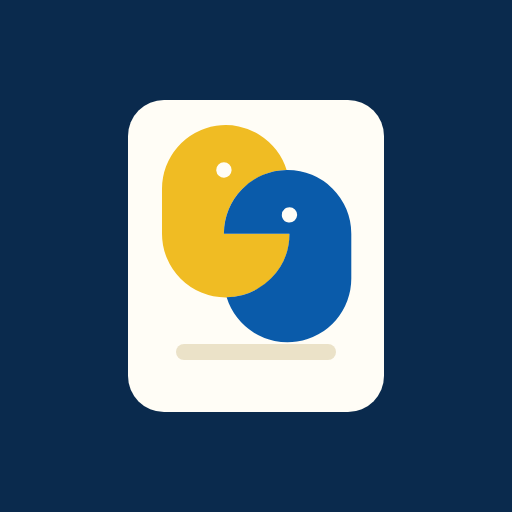
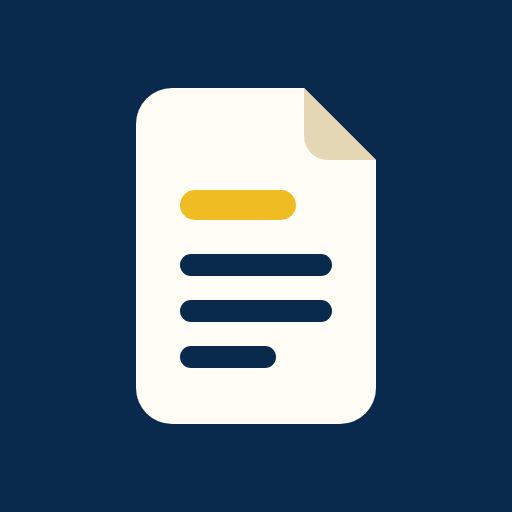
圖示改成單純的企劃書紙張，按鈕加上會動的操作圖示
- App／網站圖示拿掉學生會小人，只留一張有標題條的文件
- 下一步、上一步、新增、上傳、下載、放大、範例、回首頁都有圖示；
  閒置時只在下一個該按的地方輕輕提示，滑過時動作更明顯；動畫設定「關閉」時全部靜止

Claude-Session: https://claude.ai/code/session_016i4e4p2haFjCx31cF5SqkS

Changed region(s): [[0.2812, 0.1562, 0.75, 0.7812], [0.2812, 0.7812, 0.7188, 0.8438], [0.25, 0.2188, 0.2812, 0.7812]]

diff --git a/index.html b/index.html
@@ -68,8 +68,8 @@
   <div class="hero-rule">
     <span class="sub">南臺科技大學 學務處課外活動組 企劃書格式</span>
     <div class="actions">
-      <button type="button" class="btn icon" onClick="{{loadSample}}">載入範例資料</button>
-      <button type="button" class="btn icon" onClick="{{goStart}}">回到開始</button>
+      <button type="button" class="btn icon" onClick="{{loadSample}}"><svg class="ai ai-spark" aria-hidden="true" width="16" height="16" style="width:16px;height:16px" viewBox="0 0 24 24" fill="none" stroke="currentColor" stroke-width="1.9" stroke-linecap="round" stroke-linejoin="round"><g class="ai-m"><path d="M12 3l1.8 5.2L19 10l-5.2 1.8L12 17l-1.8-5.2L5 10l5.2-1.8z"/><path d="M19 17v4M17 19h4"/></g></svg>載入範例資料</button>
+      <button type="button" class="btn icon" onClick="{{goStart}}"><svg class="ai ai-home" aria-hidden="true" width="16" height="16" style="width:16px;height:16px" viewBox="0 0 24 24" fill="none" stroke="currentColor" stroke-width="1.9" stroke-linecap="round" stroke-linejoin="round"><g class="ai-m"><path d="M4 11l8-7 8 7"/><path d="M6 10v10h12V10"/></g></svg>回到開始</button>
     </div>
   </div>
 
@@ -100,15 +100,17 @@
           <p class="sub" style="margin: 0; font-size: 14px">照著步驟填，最後一鍵匯出符合學校格式的 Word 與 PDF。之前匯出的 Word 檔也能丟回來繼續改。</p>
           <div class="start">
             <button type="button" class="card" onClick="{{startNew}}">
+              <span class="card-ico"><svg class="ai ai-pen" aria-hidden="true" width="26" height="26" style="width:26px;height:26px" viewBox="0 0 24 24" fill="none" stroke="currentColor" stroke-width="1.9" stroke-linecap="round" stroke-linejoin="round"><g class="ai-m"><path d="M4 20l1-4.5L16 4.5l3.5 3.5L8.5 19z"/><path d="M14 6.5l3.5 3.5"/></g></svg></span>
               <span class="k">01 — NEW</span>
               <span class="t">建立新企劃書</span>
               <span class="sub">從空白開始，一步一步填寫活動資訊。</span>
             </button>
             <label class="card dashed">
+              <span class="card-ico"><svg class="ai ai-up" aria-hidden="true" width="26" height="26" style="width:26px;height:26px" viewBox="0 0 24 24" fill="none" stroke="currentColor" stroke-width="1.9" stroke-linecap="round" stroke-linejoin="round"><g class="ai-m"><path d="M12 15V4"/><path d="M7 9l5-5 5 5"/></g><path d="M5 20h14"/></svg></span>
               <span class="k">02 — IMPORT</span>
               <span class="t">匯入 Word 原檔</span>
               <span class="sub">選擇用本工具匯出的 .docx，內容會自動帶回各步驟。</span>
-              <span class="pick-cue">選擇 .docx 檔</span>
+              <span class="pick-cue"><svg class="ai ai-up" aria-hidden="true" width="15" height="15" style="width:15px;height:15px" viewBox="0 0 24 24" fill="none" stroke="currentColor" stroke-width="1.9" stroke-linecap="round" stroke-linejoin="round"><g class="ai-m"><path d="M12 15V4"/><path d="M7 9l5-5 5 5"/></g><path d="M5 20h14"/></svg>選擇 .docx 檔</span>
               <input type="file" accept=".docx" class="sr" onChange="{{onImport}}">
             </label>
           </div>
@@ -201,7 +203,7 @@
               </div>
             </sc-for>
           </div></div>
-          <button type="button" class="btn ghost add-row" onClick="{{addStaff}}">＋ 新增一列</button>
+          <button type="button" class="btn ghost add-row" onClick="{{addStaff}}"><svg class="ai ai-plus" aria-hidden="true" width="18" height="18" style="width:18px;height:18px" viewBox="0 0 24 24" fill="none" stroke="currentColor" stroke-width="1.9" stroke-linecap="round" stroke-linejoin="round"><g class="ai-m"><path d="M12 5v14"/><path d="M5 12h14"/></g></svg>新增一列</button>
         </div>
       </sc-if>
 
@@ -224,8 +226,8 @@
             </sc-for>
           </div></div>
           <div class="actions">
-            <button type="button" class="btn ghost" onClick="{{addFlow}}">＋ 新增一列</button>
-            <button type="button" class="btn" onClick="{{addPrePost}}">帶入「場地佈置」與「場復」</button>
+            <button type="button" class="btn ghost" onClick="{{addFlow}}"><svg class="ai ai-plus" aria-hidden="true" width="18" height="18" style="width:18px;height:18px" viewBox="0 0 24 24" fill="none" stroke="currentColor" stroke-width="1.9" stroke-linecap="round" stroke-linejoin="round"><g class="ai-m"><path d="M12 5v14"/><path d="M5 12h14"/></g></svg>新增一列</button>
+            <button type="button" class="btn" onClick="{{addPrePost}}"><svg class="ai ai-list" aria-hidden="true" width="16" height="16" style="width:16px;height:16px" viewBox="0 0 24 24" fill="none" stroke="currentColor" stroke-width="1.9" stroke-linecap="round" stroke-linejoin="round"><g class="ai-m"><path d="M8 7l3 3 5-6" /></g><path d="M4 13h16M4 18h11"/></svg>帶入「場地佈置」與「場復」</button>
           </div>
         </div>
       </sc-if>
@@ -251,7 +253,7 @@
               </div>
             </sc-for>
           </div></div>
-          <button type="button" class="btn ghost add-row" onClick="{{addBudget}}">＋ 新增經費項目</button>
+          <button type="button" class="btn ghost add-row" onClick="{{addBudget}}"><svg class="ai ai-plus" aria-hidden="true" width="18" height="18" style="width:18px;height:18px" viewBox="0 0 24 24" fill="none" stroke="currentColor" stroke-width="1.9" stroke-linecap="round" stroke-linejoin="round"><g class="ai-m"><path d="M12 5v14"/><path d="M5 12h14"/></g></svg>新增經費項目</button>
           <div class="stats">
             <div class="stat"><div class="k">經費總計 TOTAL</div><div class="v">{{totalStr}}<small>元</small></div></div>
             <div class="stat"><div class="k">學輔支應 {{subsidyIdx}}</div><div class="v">{{subsidyStr}}<small>元</small></div></div>
@@ -302,7 +304,7 @@
                     <div class="up-empty"><svg aria-hidden="true" width="22" height="22" viewBox="0 0 24 24" fill="none" stroke="currentColor" stroke-width="1.5" stroke-linecap="round" stroke-linejoin="round"><rect x="3" y="4" width="18" height="16" rx="2"></rect><circle cx="9" cy="10" r="2"></circle><path d="M21 16l-5-5-9 9"></path></svg><span>{{u.where}}</span></div>
                   </sc-if>
                   <div class="actions">
-                    <label class="btn icon up-pick">{{u.pickLabel}}<input type="file" accept="image/*" class="sr" onChange="{{u.pick}}"></label>
+                    <label class="btn icon up-pick"><svg class="ai ai-up" aria-hidden="true" width="16" height="16" style="width:16px;height:16px" viewBox="0 0 24 24" fill="none" stroke="currentColor" stroke-width="1.9" stroke-linecap="round" stroke-linejoin="round"><g class="ai-m"><path d="M12 15V4"/><path d="M7 9l5-5 5 5"/></g><path d="M5 20h14"/></svg>{{u.pickLabel}}<input type="file" accept="image/*" class="sr" onChange="{{u.pick}}"></label>
                     <sc-if value="{{u.has}}" hint-placeholder-val="{{false}}"><button type="button" class="btn icon ghost" onClick="{{u.clear}}">移除</button></sc-if>
                   </div>
                   <p class="sub" style="margin: 0; font-size: 12px">{{u.note}}</p>
@@ -326,11 +328,11 @@
           <label class="field">檔名<input type="text" value="{{fileName}}" onChange="{{on.fileName}}"></label>
           <div class="export-btns">
             <button type="button" class="btn primary big" onClick="{{exportWord}}" disabled="{{busyAny}}">
-              <svg aria-hidden="true" width="20" height="20" viewBox="0 0 24 24" fill="none" stroke="currentColor" stroke-width="1.8" stroke-linecap="round" stroke-linejoin="round"><path d="M12 4v11"></path><path d="M7 10l5 5 5-5"></path><path d="M5 20h14"></path></svg>
+              <svg class="ai ai-down" aria-hidden="true" width="20" height="20" style="width:20px;height:20px" viewBox="0 0 24 24" fill="none" stroke="currentColor" stroke-width="1.8" stroke-linecap="round" stroke-linejoin="round"><g class="ai-m"><path d="M12 4v11"></path><path d="M7 10l5 5 5-5"></path></g><path d="M5 20h14"></path></svg>
               {{wordLabel}}
             </button>
             <button type="button" class="btn big" onClick="{{exportPdf}}" disabled="{{busyAny}}">
-              <svg aria-hidden="true" width="20" height="20" viewBox="0 0 24 24" fill="none" stroke="currentColor" stroke-width="1.8" stroke-linecap="round" stroke-linejoin="round"><path d="M12 4v11"></path><path d="M7 10l5 5 5-5"></path><path d="M5 20h14"></path></svg>
+              <svg class="ai ai-down" aria-hidden="true" width="20" height="20" style="width:20px;height:20px" viewBox="0 0 24 24" fill="none" stroke="currentColor" stroke-width="1.8" stroke-linecap="round" stroke-linejoin="round"><g class="ai-m"><path d="M12 4v11"></path><path d="M7 10l5 5 5-5"></path></g><path d="M5 20h14"></path></svg>
               {{pdfLabel}}
             </button>
           </div>
@@ -373,9 +375,9 @@
       <!-- 上一步 / 下一步 -->
       <sc-if value="{{inStep}}" hint-placeholder-val="{{false}}">
         <div class="foot" style="margin-top: 22px">
-          <button type="button" class="btn" onClick="{{prev}}">← 上一步</button>
+          <button type="button" class="btn" onClick="{{prev}}"><svg class="ai ai-prev" aria-hidden="true" width="18" height="18" style="width:18px;height:18px" viewBox="0 0 24 24" fill="none" stroke="currentColor" stroke-width="1.9" stroke-linecap="round" stroke-linejoin="round"><g class="ai-m"><path d="M19 12H5"/><path d="M11 6l-6 6 6 6"/></g></svg>上一步</button>
           <sc-if value="{{notLast}}" hint-placeholder-val="{{true}}">
-            <button type="button" class="btn primary" onClick="{{next}}">下一步：{{nextLabel}} →</button>
+            <button type="button" class="btn primary" onClick="{{next}}">下一步：{{nextLabel}}<svg class="ai ai-next" aria-hidden="true" width="18" height="18" style="width:18px;height:18px" viewBox="0 0 24 24" fill="none" stroke="currentColor" stroke-width="1.9" stroke-linecap="round" stroke-linejoin="round"><g class="ai-m"><path d="M5 12h14"/><path d="M13 6l6 6-6 6"/></g></svg></button>
           </sc-if>
         </div>
       </sc-if>
@@ -386,7 +388,7 @@
       <div style="position: {{pz.pos}}; inset: {{pz.inset}}; z-index: {{pz.z}}; background: {{pz.bg}}; overflow: {{pz.ov}}; padding: {{pz.pad}}; display: flex; flex-direction: column; align-items: center; gap: 12px">
         <div style="width: 100%; max-width: {{pz.barW}}; display: flex; flex-direction: column; gap: 10px">
           <div class="panel-head" style="margin: 0"><h2 style="color: {{pz.head}}">預覽<span class="en">PREVIEW</span></h2>
-            <button type="button" class="btn icon" onClick="{{toggleZoom}}">{{pz.btn}}</button></div>
+            <button type="button" class="btn icon" onClick="{{toggleZoom}}"><svg class="ai ai-zoom" aria-hidden="true" width="16" height="16" style="width:16px;height:16px" viewBox="0 0 24 24" fill="none" stroke="currentColor" stroke-width="1.9" stroke-linecap="round" stroke-linejoin="round"><g class="ai-m"><circle cx="11" cy="11" r="6"/><path d="M20 20l-4.5-4.5"/></g></svg>{{pz.btn}}</button></div>
           <div class="tabs" role="tablist" aria-label="預覽頁面">
             <sc-for list="{{pages}}" as="pg" hint-placeholder-count="4">
               <button type="button" role="tab" class="tab {{pg.cls}}" aria-selected="{{pg.sel}}" onClick="{{pg.go}}">{{pg.label}}</button>

diff --git a/css/app.css b/css/app.css
@@ -335,3 +335,39 @@ button:focus-visible,input:focus-visible,textarea:focus-visible,select:focus-vis
 @keyframes fadeIn{from{opacity:0}}
 /* 關閉：全部不動 */
 :root[data-motion="off"] *,:root[data-motion="off"] *::before,:root[data-motion="off"] *::after{animation:none!important;transition:none!important}
+
+/* ---------- 會動的操作圖示（.ai；動畫設定「關閉」時全部靜止） ----------
+   閒置時偶爾動一下，提示「這裡可以按」；滑過或按下時動作更明顯。 */
+.ai{flex:none;overflow:visible;display:block}
+.ai .ai-m{transform-box:fill-box;transform-origin:center;transition:transform .35s var(--spring)}
+.card-ico{width:52px;height:52px;border-radius:50%;display:flex;align-items:center;justify-content:center;background:color-mix(in srgb,var(--ink) 9%,transparent);margin-bottom:4px}
+.card:not(.dashed) .card-ico{background:color-mix(in srgb,#fff 35%,transparent)}
+.pick-cue{display:inline-flex;align-items:center;gap:6px}
+.round svg{transition:transform .45s var(--spring)}
+@keyframes ai-nudge{0%,62%,100%{transform:none}72%{transform:translateX(4px)}82%{transform:translateX(-1px)}90%{transform:translateX(2px)}}
+@keyframes ai-up{0%,58%,100%{transform:none}70%{transform:translateY(-4px)}82%{transform:translateY(1px)}90%{transform:none}}
+@keyframes ai-down{0%,58%,100%{transform:none}70%{transform:translateY(4px)}82%{transform:translateY(-1px)}90%{transform:none}}
+@keyframes ai-write{0%,55%,100%{transform:none}64%{transform:translate(-2px,2px) rotate(-10deg)}73%{transform:translate(2px,0) rotate(4deg)}82%{transform:translate(-1px,1px) rotate(-6deg)}}
+@keyframes ai-twinkle{0%,70%,100%{transform:none}80%{transform:scale(1.25) rotate(20deg)}}
+/* 閒置提示：只放在「下一個該按的」地方，不會整頁都在動 */
+:root:not([data-motion="off"]) .btn.primary .ai-next .ai-m{animation:ai-nudge 2.6s var(--ease) infinite}
+:root:not([data-motion="off"]) .card-ico .ai-pen .ai-m{animation:ai-write 3s var(--ease) infinite}
+:root:not([data-motion="off"]) .card-ico .ai-up .ai-m,
+:root:not([data-motion="off"]) .up:not(.has) .up-pick .ai-up .ai-m{animation:ai-up 2.8s var(--ease) infinite}
+:root:not([data-motion="off"]) .export-btns .btn.primary:not(:disabled) .ai-down .ai-m{animation:ai-down 2.6s var(--ease) infinite}
+:root:not([data-motion="off"]) .btn .ai-spark .ai-m{animation:ai-twinkle 4s var(--ease) infinite}
+/* 滑過／按下 */
+@media (hover:hover){
+  :root:not([data-motion="off"]) .btn:hover .ai-next .ai-m{animation:none;transform:translateX(4px)}
+  :root:not([data-motion="off"]) .btn:hover .ai-prev .ai-m{transform:translateX(-4px)}
+  :root:not([data-motion="off"]) .btn:hover .ai-plus .ai-m{transform:rotate(90deg)}
+  :root:not([data-motion="off"]) .btn:hover .ai-up .ai-m,:root:not([data-motion="off"]) .card:hover .ai-up .ai-m{animation:none;transform:translateY(-4px)}
+  :root:not([data-motion="off"]) .btn:hover .ai-down .ai-m{animation:none;transform:translateY(4px)}
+  :root:not([data-motion="off"]) .btn:hover .ai-zoom .ai-m{transform:scale(1.18)}
+  :root:not([data-motion="off"]) .btn:hover .ai-home .ai-m{transform:translateY(-2px)}
+  :root:not([data-motion="off"]) .btn:hover .ai-list .ai-m{transform:scale(1.25)}
+  :root:not([data-motion="off"]) [data-theme-toggle]:hover svg{transform:rotate(180deg)}
+  :root:not([data-motion="off"]) [data-settings]:hover svg{transform:rotate(-25deg) scale(1.08)}
+}
+:root:not([data-motion="off"]) .btn:active .ai .ai-m{transform:scale(.85)}
+:root[data-motion="off"] .ai .ai-m{animation:none!important;transition:none!important}

diff --git a/js/app.js b/js/app.js
@@ -502,7 +502,7 @@ class Component extends DCLogic {
     var imgSlots = slotDefs.map(function (d) {
       var im = IM[d[0]], busy = s.imgBusy === d[0];
       return { key: d[0], label: d[1], en: d[2], where: '會放在：' + d[3], note: d[4], has: !!im, empty: !im, src: im ? im.src : '',
-        cls: busy ? 'is-busy' : '', pickLabel: busy ? '處理中…' : im ? '換一張' : '選擇圖片',
+        cls: busy ? 'is-busy' : im ? 'has' : '', pickLabel: busy ? '處理中…' : im ? '換一張' : '選擇圖片',
         pick: function (e) { self.pickImage(d[0], e); },
         clear: function () { var n = Object.assign({}, self.state.imgs); n[d[0]] = null; self.setState({ imgs: n }); } };
     });

diff --git a/sw.js b/sw.js
@@ -1,5 +1,5 @@
 /* 離線快取：網站檔案先用快取、背景更新（stale-while-revalidate）；Google 字型同樣快取。改版時把 VERSION 加一。 */
-var VERSION = 'proposal-v6';
+var VERSION = 'proposal-v7';
 var CORE = ['./', 'index.html', 'css/app.css', 'js/theme.js', 'js/pwa.js', 'js/settings.js', 'js/motion.js', 'css/themes.css', 'js/vendor/jszip.min.js', 'js/vendor/html2canvas.min.js',
   'js/vendor/jspdf.umd.min.js', 'js/vendor/morphdom.js', 'js/fill-docx.js', 'js/pdf.js', 'js/template-b64.js', 'js/dc-runtime.js', 'js/app.js',
   'manifest.webmanifest', 'assets/cover-seal.png', 'icons/favicon.svg', 'icons/icon-192.png', 'icons/icon-512.png'];
